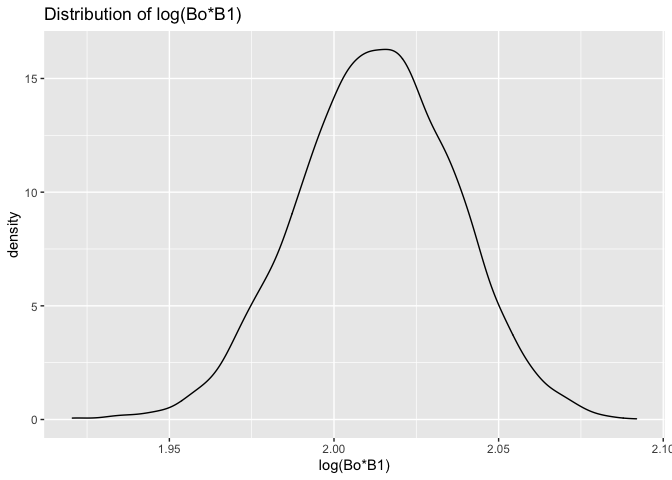
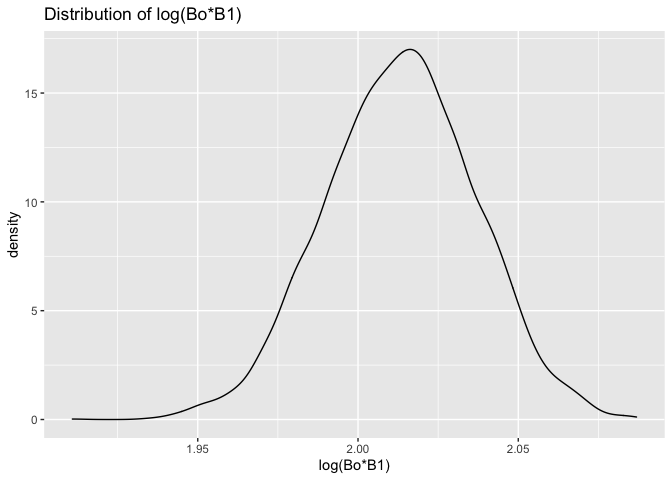
commit

diff --git a/P8105_HW6_YZ4181.md b/P8105_HW6_YZ4181.md
@@ -190,7 +190,7 @@ cv_df %>%
   ) %>% 
   ggplot(
     aes(x = model, y = rmse)) + geom_boxplot() +
-  labs(titble = "Boxplot of rmse for three models")
+  labs(title = "Boxplot of rmse for three models")
 ```
 
 ![](P8105_HW6_YZ4181_files/figure-gfm/unnamed-chunk-4-1.png)<!-- -->
@@ -282,7 +282,7 @@ r.squared_result %>%
 
 | ci\_lower | ci\_upper |
 |----------:|----------:|
-| 0.8936626 | 0.9271964 |
+| 0.8932837 | 0.9272072 |
 
 ``` r
 log_result %>% 
@@ -294,14 +294,14 @@ log_result %>%
     ## # A tibble: 5,000 × 3
     ##    id    ci_lower ci_upper
     ##    <chr>    <dbl>    <dbl>
-    ##  1 0001      2.01     2.01
-    ##  2 0002      2.03     2.03
-    ##  3 0003      1.96     1.96
+    ##  1 0001      2.04     2.04
+    ##  2 0002      2.02     2.02
+    ##  3 0003      2.05     2.05
     ##  4 0004      2.03     2.03
-    ##  5 0005      2.02     2.02
-    ##  6 0006      2.02     2.02
-    ##  7 0007      2.03     2.03
-    ##  8 0008      2.00     2.00
-    ##  9 0009      2.00     2.00
-    ## 10 0010      2.00     2.00
+    ##  5 0005      2.05     2.05
+    ##  6 0006      2.03     2.03
+    ##  7 0007      2.04     2.04
+    ##  8 0008      1.99     1.99
+    ##  9 0009      2.02     2.02
+    ## 10 0010      2.07     2.07
     ## # … with 4,990 more rows
